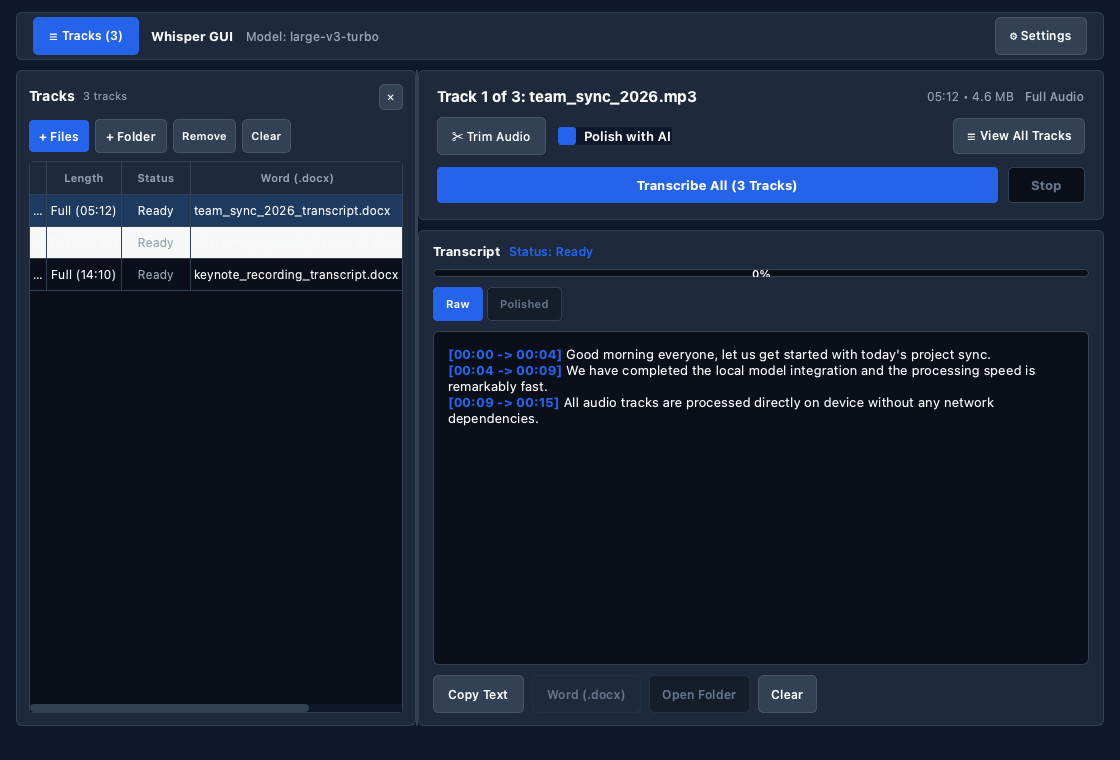
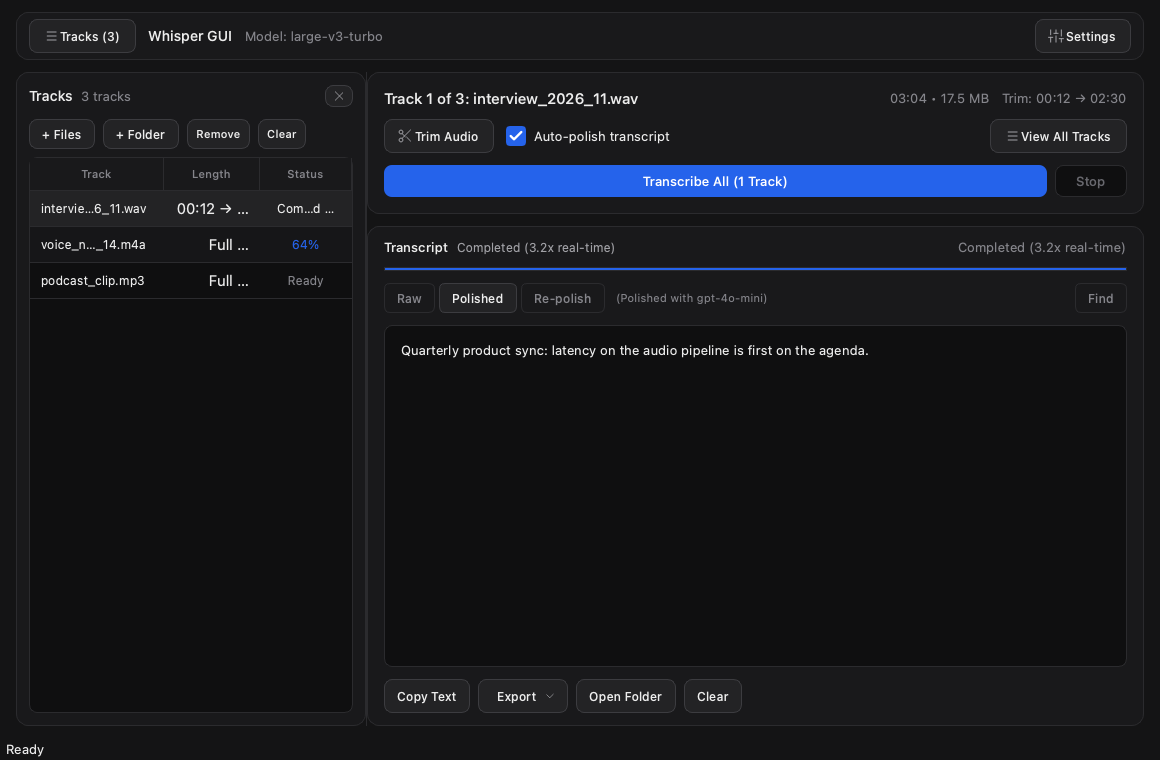
docs: update README screenshots and test badge to v0.2.1 UI

diff --git a/README.md b/README.md
@@ -13,7 +13,7 @@
   <img src="https://img.shields.io/badge/Python-3.10%20%7C%203.11%20%7C%203.12-green?style=flat-square" alt="Python Version" />
   <img src="https://img.shields.io/badge/Engine-faster--whisper-orange?style=flat-square" alt="Engine" />
   <img src="https://img.shields.io/badge/UI-PySide6%20(Qt%206)-purple?style=flat-square" alt="UI" />
-  <img src="https://img.shields.io/badge/Tests-47%20Passing-brightgreen?style=flat-square" alt="Tests" />
+  <img src="https://img.shields.io/badge/Tests-85%20Passing-brightgreen?style=flat-square" alt="Tests" />
 </p>
 
 ---
@@ -27,14 +27,14 @@
 ## Workflow Preview
 
 ### 1. Workspace & Multi-Track Lateral Drawer
-The slide-out drawer keeps your audio queue organized with live progress pills, one-click track activation, and batch processing:
+The slide-out drawer keeps your audio queue organized with live track progress, trim indicators, and inline transcript editing, search, and export (`Word`, `SRT`, `VTT`, `TXT`):
 
 ![Workspace with Lateral Drawer](assets/screenshots/workspace.png)
 
 ---
 
 ### 2. Audio Trimming
-Frame-accurate range selection with Start/End markers to transcribe only the sections you need:
+Frame-accurate range selection with `Start`/`End` timestamps and audio preview playback to transcribe only the sections you need:
 
 <p align="center">
   <img src="assets/screenshots/trim_dialog.png" width="600" alt="Audio Trimming Dialog" />
@@ -131,7 +131,7 @@ source .venv/bin/activate  # On Windows: .venv\Scripts\activate
 # Install package with development dependencies
 pip install -e ".[dev]"
 
-# Run full test suite (47 unit & integration tests)
+# Run full test suite (85 unit & integration tests)
 pytest -v
 ```
 
